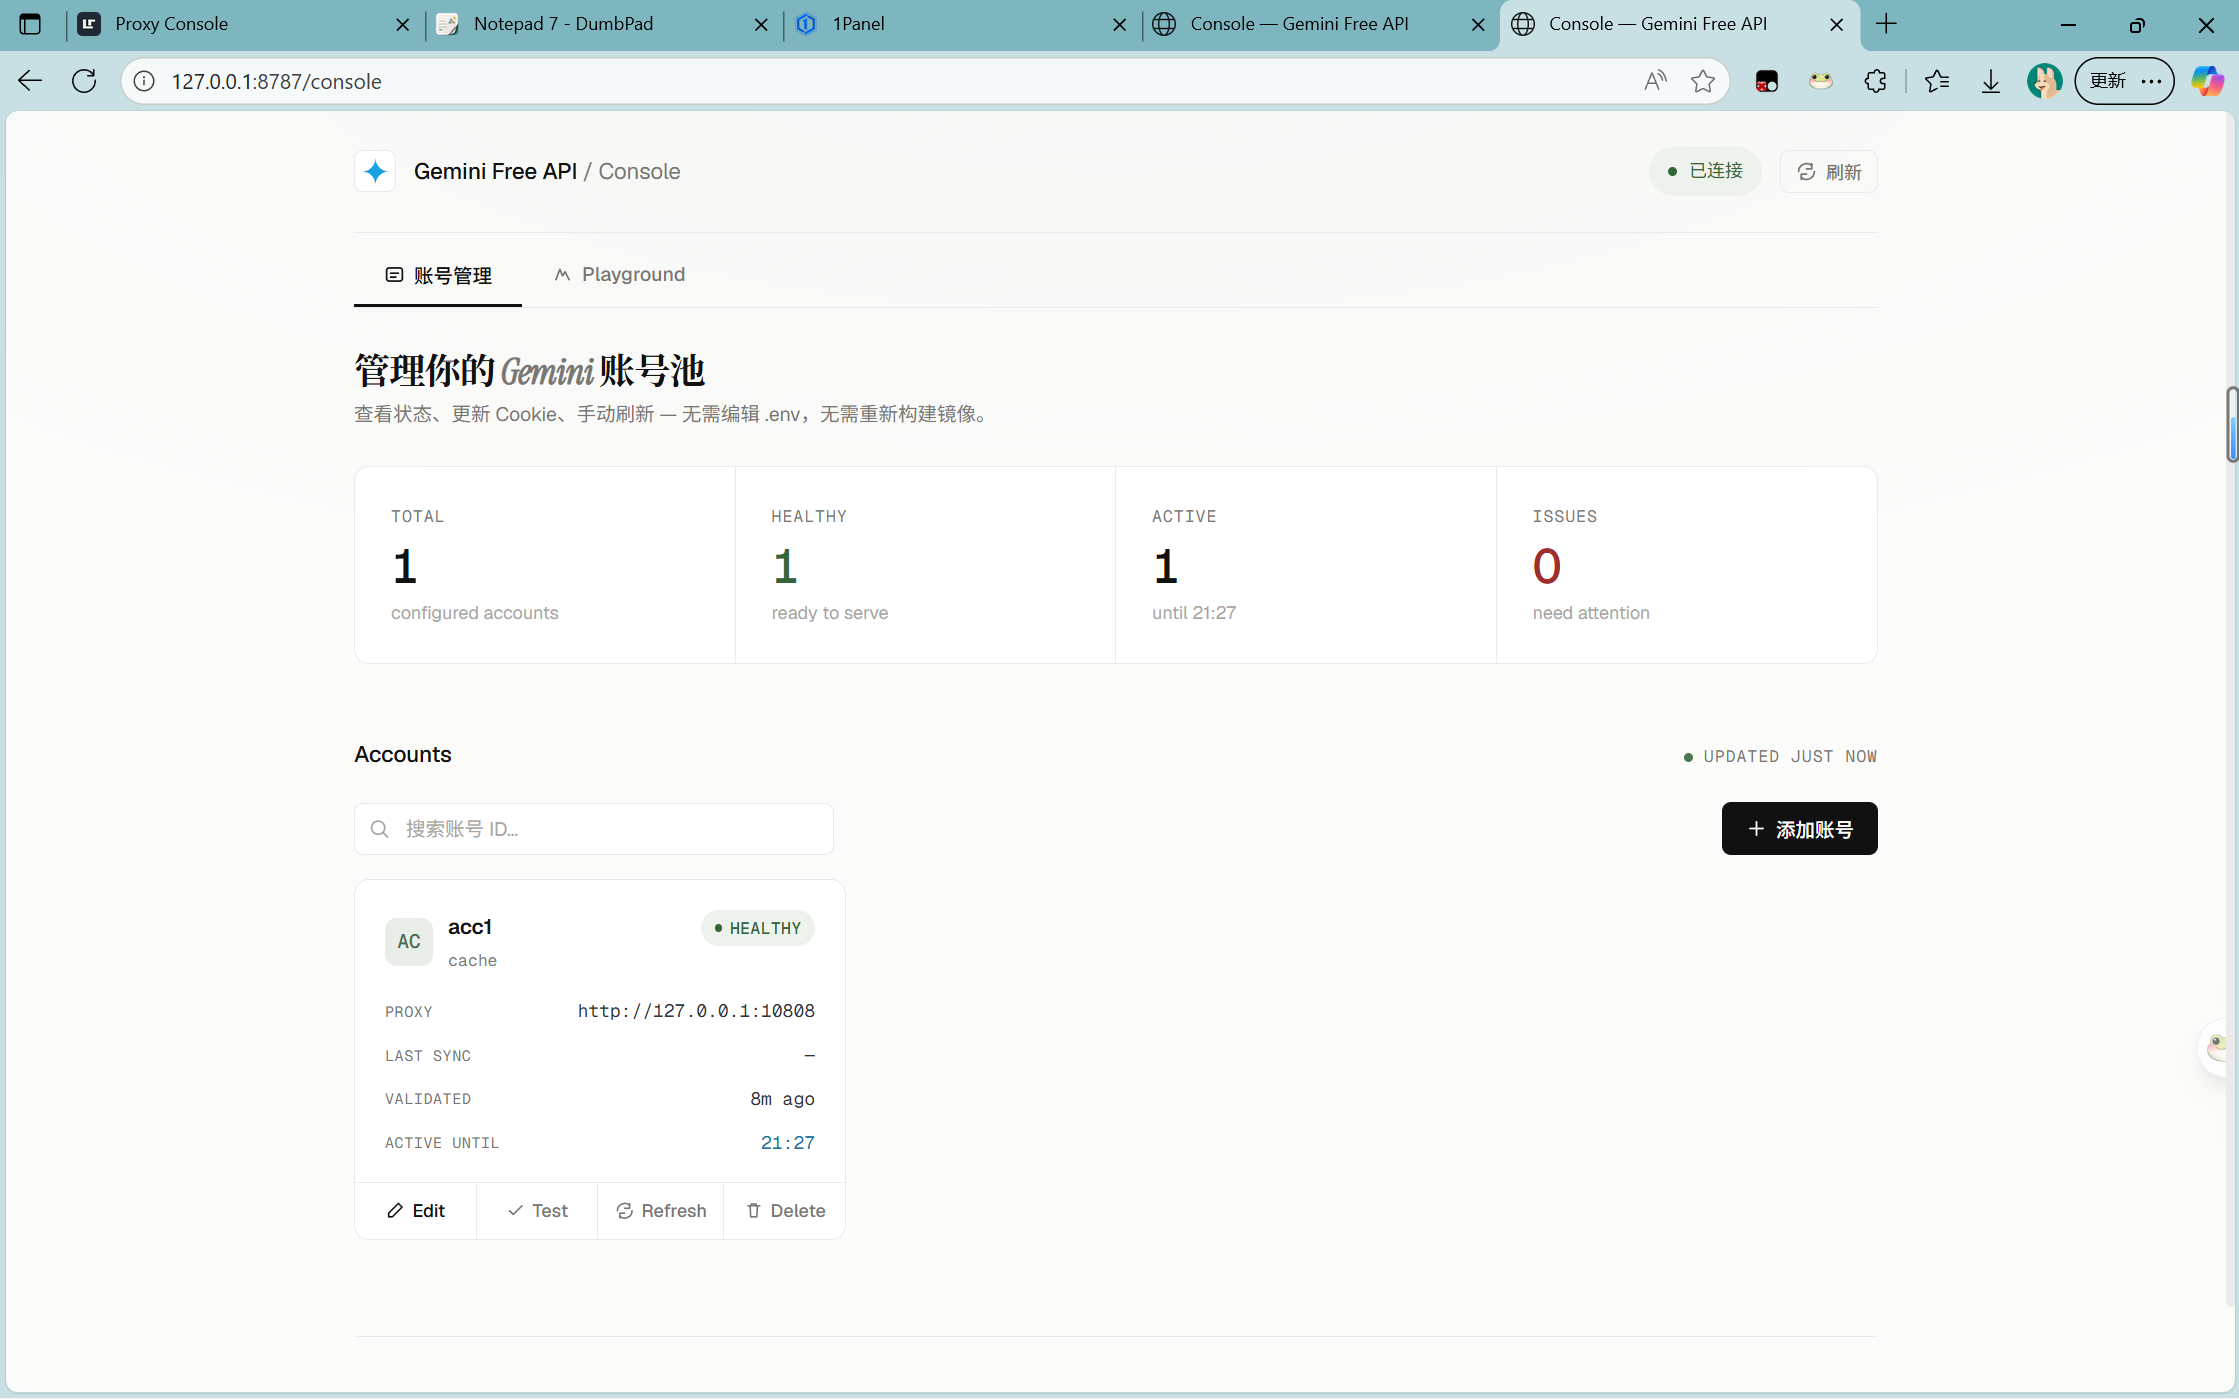
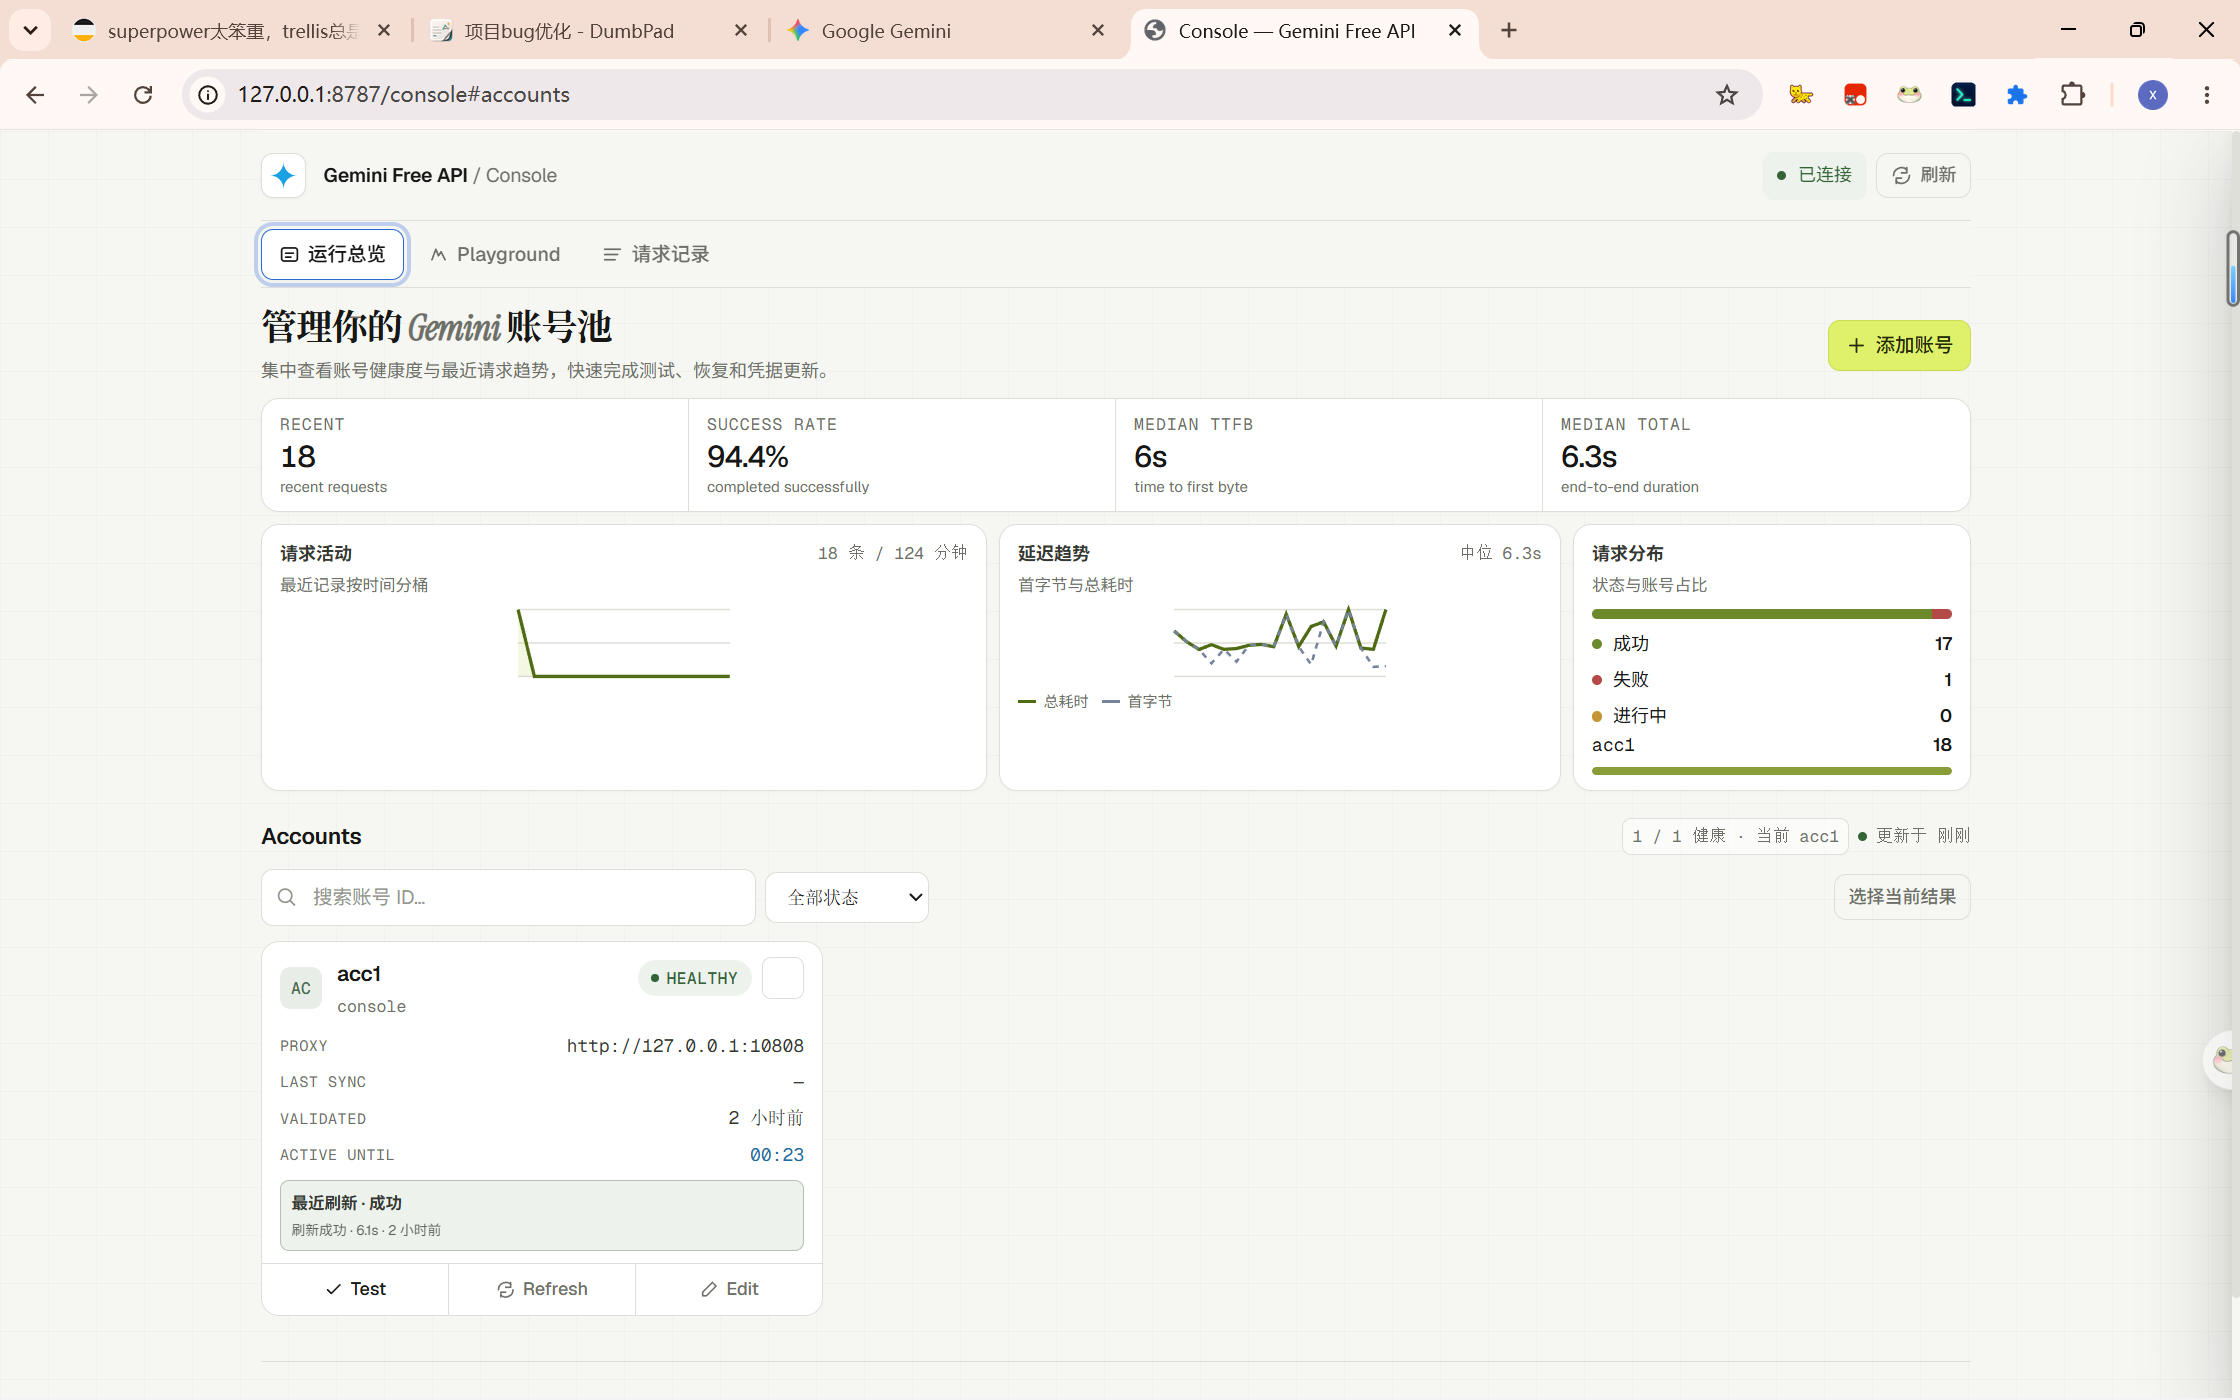
update readme

diff --git a/README.md b/README.md
@@ -74,6 +74,7 @@ GEMINI_ACCOUNT_BACKUP1_PROXY=http://127.0.0.1:10809
 - 添加 / 编辑 / 删除账号
 - Cookie 更新会先验证，验证失败时保留原有可用 Cookie
 - 账号测试：发送真实对话消息验证可用性
+- 调用记录，方便查看实际情况
 - 代理测试：验证代理连通性
 
 ### Playground
@@ -81,6 +82,11 @@ GEMINI_ACCOUNT_BACKUP1_PROXY=http://127.0.0.1:10809
 控制台内置 Playground 聊天界面，支持模型切换、Thinking Level 调节和流式对话测试。
 
 ![Playground](./asset/playground.gif)
+
+### 调用记录
+
+![request](./asset/request.png)
+
 
 ## 调用示例
 